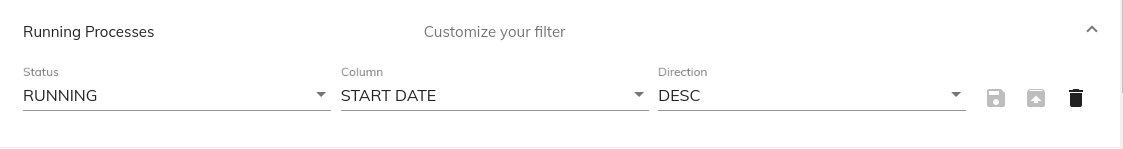
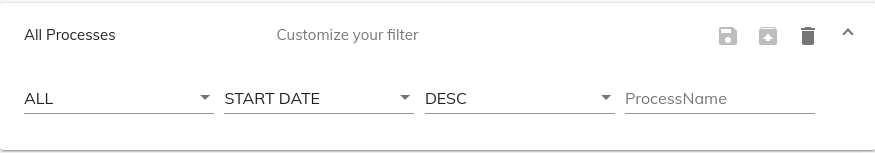
* After rebase* Cherry pick * Updated doc

diff --git a/lib/process-services-cloud/src/lib/task/task-filters/components/edit-task-filter-cloud.component.spec.ts b/lib/process-services-cloud/src/lib/task/task-filters/components/edit-task-filter-cloud.component.spec.ts
@@ -135,7 +135,7 @@ describe('EditTaskFilterCloudComponent', () => {
         }));
 
         it('should disable save button if the task filter is not changed', async(() => {
-            component.showFilterActions = true;
+            component.toggleFilterActions = true;
             let expansionPanel = fixture.debugElement.nativeElement.querySelector('mat-expansion-panel-header');
             expansionPanel.click();
             fixture.detectChanges();
@@ -146,7 +146,7 @@ describe('EditTaskFilterCloudComponent', () => {
         }));
 
         it('should disable saveAs button if the task filter is not changed', async(() => {
-            component.showFilterActions = true;
+            component.toggleFilterActions = true;
             let expansionPanel = fixture.debugElement.nativeElement.querySelector('mat-expansion-panel-header');
             expansionPanel.click();
             fixture.detectChanges();
@@ -157,7 +157,7 @@ describe('EditTaskFilterCloudComponent', () => {
         }));
 
         it('should enable delete button by default', async(() => {
-            component.showFilterActions = true;
+            component.toggleFilterActions = true;
             fixture.detectChanges();
             let expansionPanel = fixture.debugElement.nativeElement.querySelector('mat-expansion-panel-header');
             expansionPanel.click();
@@ -298,7 +298,7 @@ describe('EditTaskFilterCloudComponent', () => {
         });
 
         it('should emit save event and save the filter on click save button', async(() => {
-            component.showFilterActions = true;
+            component.toggleFilterActions = true;
             const saveFilterSpy = spyOn(service, 'updateFilter').and.returnValue(fakeFilter);
             let saveSpy: jasmine.Spy = spyOn(component.action, 'emit');
             fixture.detectChanges();
@@ -321,7 +321,7 @@ describe('EditTaskFilterCloudComponent', () => {
         }));
 
         it('should emit delete event and delete the filter on click of delete button', async(() => {
-            component.showFilterActions = true;
+            component.toggleFilterActions = true;
             const deleteFilterSpy = spyOn(service, 'deleteFilter').and.callThrough();
             let deleteSpy: jasmine.Spy = spyOn(component.action, 'emit');
             fixture.detectChanges();
@@ -341,7 +341,7 @@ describe('EditTaskFilterCloudComponent', () => {
         }));
 
         it('should emit saveAs event and add filter on click saveAs button', async(() => {
-            component.showFilterActions = true;
+            component.toggleFilterActions = true;
             const saveAsFilterSpy = spyOn(service, 'addFilter').and.callThrough();
             let saveAsSpy: jasmine.Spy = spyOn(component.action, 'emit');
             fixture.detectChanges();

diff --git a/lib/process-services-cloud/src/lib/process/process-filters/components/edit-process-filter-cloud.component.spec.ts b/lib/process-services-cloud/src/lib/process/process-filters/components/edit-process-filter-cloud.component.spec.ts
@@ -133,7 +133,7 @@ describe('EditProcessFilterCloudComponent', () => {
         }));
 
         it('should disable save button if the process filter is not changed', async(() => {
-            component.showFilterActions = true;
+            component.toggleFilterActions = true;
             let expansionPanel = fixture.debugElement.nativeElement.querySelector('mat-expansion-panel-header');
             expansionPanel.click();
             fixture.detectChanges();
@@ -144,7 +144,7 @@ describe('EditProcessFilterCloudComponent', () => {
         }));
 
         it('should disable saveAs button if the process filter is not changed', async(() => {
-            component.showFilterActions = true;
+            component.toggleFilterActions = true;
             let expansionPanel = fixture.debugElement.nativeElement.querySelector('mat-expansion-panel-header');
             expansionPanel.click();
             fixture.detectChanges();
@@ -155,7 +155,7 @@ describe('EditProcessFilterCloudComponent', () => {
         }));
 
         it('should enable delete button by default', async(() => {
-            component.showFilterActions = true;
+            component.toggleFilterActions = true;
             let expansionPanel = fixture.debugElement.nativeElement.querySelector('mat-expansion-panel-header');
             expansionPanel.click();
             fixture.detectChanges();
@@ -306,7 +306,7 @@ describe('EditProcessFilterCloudComponent', () => {
         });
 
         it('should emit save event and save the filter on click save button', async(() => {
-            component.showFilterActions = true;
+            component.toggleFilterActions = true;
             const saveFilterSpy = spyOn(service, 'updateFilter').and.returnValue(fakeFilter);
             let saveSpy: jasmine.Spy = spyOn(component.action, 'emit');
 
@@ -329,7 +329,7 @@ describe('EditProcessFilterCloudComponent', () => {
         }));
 
         it('should emit delete event and delete the filter on click of delete button', async(() => {
-            component.showFilterActions = true;
+            component.toggleFilterActions = true;
             const deleteFilterSpy = spyOn(service, 'deleteFilter').and.callThrough();
             let deleteSpy: jasmine.Spy = spyOn(component.action, 'emit');
             fixture.detectChanges();
@@ -350,7 +350,7 @@ describe('EditProcessFilterCloudComponent', () => {
         }));
 
         it('should emit saveAs event and add filter on click saveAs button', async(() => {
-            component.showFilterActions = true;
+            component.toggleFilterActions = true;
             const saveAsFilterSpy = spyOn(service, 'addFilter').and.callThrough();
             let saveAsSpy: jasmine.Spy = spyOn(component.action, 'emit');
             fixture.detectChanges();

diff --git a/demo-shell/src/app/components/app-layout/cloud/tasks-cloud-demo.component.ts b/demo-shell/src/app/components/app-layout/cloud/tasks-cloud-demo.component.ts
@@ -17,7 +17,7 @@
 
 import { Component, ViewChild, OnInit } from '@angular/core';
 import { TaskListCloudComponent, TaskListCloudSortingModel, TaskFilterCloudModel } from '@alfresco/adf-process-services-cloud';
-import { UserPreferencesService } from '@alfresco/adf-core';
+import { UserPreferencesService, AppConfigService } from '@alfresco/adf-core';
 import { ActivatedRoute, Router } from '@angular/router';
 import { CloudLayoutService } from './services/cloud-layout.service';
 
@@ -28,6 +28,7 @@ import { CloudLayoutService } from './services/cloud-layout.service';
 export class TasksCloudDemoComponent implements OnInit {
 
     public static ACTION_SAVE_AS = 'SAVE_AS';
+    static TASK_FILTER_PROPERTY_KEYS = 'adf-edit-task-filter.properties';
 
     @ViewChild('taskCloud')
     taskCloud: TaskListCloudComponent;
@@ -40,6 +41,7 @@ export class TasksCloudDemoComponent implements OnInit {
 
     sortArray: TaskListCloudSortingModel[];
     editedFilter: TaskFilterCloudModel;
+    taskFilterProperties: any[];
 
     filterId;
 
@@ -47,7 +49,13 @@ export class TasksCloudDemoComponent implements OnInit {
         private cloudLayoutService: CloudLayoutService,
         private route: ActivatedRoute,
         private router: Router,
-        private userPreference: UserPreferencesService) {
+        private userPreference: UserPreferencesService,
+        private appConfig: AppConfigService) {
+
+        const properties = this.appConfig.get<Array<any>>(TasksCloudDemoComponent.TASK_FILTER_PROPERTY_KEYS);
+        if (properties) {
+            this.taskFilterProperties = properties;
+        }
     }
 
     ngOnInit() {

diff --git a/lib/process-services-cloud/src/lib/process/process-filters/components/edit-process-filter-cloud.component.ts b/lib/process-services-cloud/src/lib/process/process-filters/components/edit-process-filter-cloud.component.ts
@@ -57,7 +57,7 @@ export class EditProcessFilterCloudComponent implements OnChanges {
     filterProperties: string[] = EditProcessFilterCloudComponent.DEFAULT_PROCESS_FILTER_PROPERTIES; // default ['state', 'sort', 'order']
 
     @Input()
-    toggleFilterActions = true;
+    showFilterActions = true;
 
     @Input()
     showTitle = true;
@@ -81,7 +81,7 @@ export class EditProcessFilterCloudComponent implements OnChanges {
     ];
 
     status = [
-        { label: 'ALL', value: 'ALL' },
+        { label: 'ALL', value: '' },
         { label: 'RUNNING', value: 'RUNNING' },
         { label: 'COMPLETED', value: 'COMPLETED' }
     ];
@@ -90,7 +90,7 @@ export class EditProcessFilterCloudComponent implements OnChanges {
     formHasBeenChanged = false;
     editProcessFilterForm: FormGroup;
     processFilterProperties: any[] = [];
-    showFilterActions: boolean = false;
+    toggleFilterActions: boolean = false;
 
     constructor(
         private formBuilder: FormBuilder,
@@ -271,16 +271,16 @@ export class EditProcessFilterCloudComponent implements OnChanges {
         return name.replace(regExt, '-');
     }
 
-    toggleActions(): boolean {
-        return this.toggleFilterActions;
+    showActions(): boolean {
+        return this.showFilterActions;
     }
 
     onExpand(event: any) {
-        this.showFilterActions = true;
+        this.toggleFilterActions = true;
     }
 
     onClose(event: any) {
-        this.showFilterActions = false;
+        this.toggleFilterActions = false;
     }
 
     isDateType(property: ProcessFilterProperties): boolean {

diff --git a/demo-shell/src/app/components/app-layout/cloud/processes-cloud-demo.component.ts b/demo-shell/src/app/components/app-layout/cloud/processes-cloud-demo.component.ts
@@ -24,7 +24,7 @@ import {
 } from '@alfresco/adf-process-services-cloud';
 
 import { ActivatedRoute } from '@angular/router';
-import { UserPreferencesService } from '@alfresco/adf-core';
+import { UserPreferencesService, AppConfigService } from '@alfresco/adf-core';
 import { CloudLayoutService } from './services/cloud-layout.service';
 
 @Component({
@@ -32,6 +32,8 @@ import { CloudLayoutService } from './services/cloud-layout.service';
     styleUrls: ['./processes-cloud-demo.component.scss']
 })
 export class ProcessesCloudDemoComponent implements OnInit {
+
+    static PROCESS_FILTER_PROPERTY_KEYS = 'adf-edit-process-filter.properties';
 
     @ViewChild('processCloud')
     processCloud: ProcessListCloudComponent;
@@ -45,13 +47,19 @@ export class ProcessesCloudDemoComponent implements OnInit {
     filterId: string = '';
     sortArray: any = [];
     selectedRow: any;
+    processFilterProperties: any[];
 
     editedFilter: ProcessFilterCloudModel;
 
     constructor(
         private route: ActivatedRoute,
         private cloudLayoutService: CloudLayoutService,
-        private userPreference: UserPreferencesService) {
+        private userPreference: UserPreferencesService,
+        private appConfig: AppConfigService) {
+        const properties = this.appConfig.get<Array<any>>(ProcessesCloudDemoComponent.PROCESS_FILTER_PROPERTY_KEYS);
+        if (properties) {
+            this.processFilterProperties = properties;
+        }
     }
 
     ngOnInit() {

diff --git a/lib/process-services-cloud/src/lib/task/task-filters/components/edit-task-filter-cloud.component.ts b/lib/process-services-cloud/src/lib/task/task-filters/components/edit-task-filter-cloud.component.ts
@@ -57,7 +57,7 @@ export class EditTaskFilterCloudComponent implements OnChanges {
 
     /** Toggles the filter actions. */
     @Input()
-    toggleFilterActions = true;
+    showFilterActions = true;
 
     /** Toggles the title. */
     @Input()
@@ -100,7 +100,7 @@ export class EditTaskFilterCloudComponent implements OnChanges {
     formHasBeenChanged = false;
     editTaskFilterForm: FormGroup;
     taskFilterProperties: any[] = [];
-    showFilterActions: boolean = false;
+    toggleFilterActions: boolean = false;
 
     constructor(
         private formBuilder: FormBuilder,
@@ -260,16 +260,16 @@ export class EditTaskFilterCloudComponent implements OnChanges {
         return name.replace(regExt, '-');
     }
 
-    toggleActions(): boolean {
-        return this.toggleFilterActions;
+    showActions(): boolean {
+        return this.showFilterActions;
     }
 
     onExpand(event: any) {
-        this.showFilterActions = true;
+        this.toggleFilterActions = true;
     }
 
     onClose(event: any) {
-        this.showFilterActions = false;
+        this.toggleFilterActions = false;
     }
 
     isDateType(property: TaskFilterProperties): boolean {

diff --git a/lib/process-services-cloud/src/lib/process/process-filters/components/edit-process-filter-cloud.component.html b/lib/process-services-cloud/src/lib/process/process-filters/components/edit-process-filter-cloud.component.html
@@ -4,8 +4,8 @@
             <mat-panel-title fxLayoutAlign="space-between center" id="adf-edit-process-filter-title-id">{{processFilter.name | translate}}</mat-panel-title>
             <mat-panel-description fxLayoutAlign="space-between center" id="adf-edit-process-filter-sub-title-id">
                 <span *ngIf="showTitle"> {{ 'ADF_CLOUD_EDIT_PROCESS_FILTER.TITLE' | translate}}</span>
-                <div *ngIf="toggleActions()" class="adf-cloud-edit-task-filter-actions">
-                    <ng-container *ngIf="showFilterActions">
+                <div *ngIf="showActions()" class="adf-cloud-edit-task-filter-actions">
+                    <ng-container *ngIf="toggleFilterActions">
                         <button mat-icon-button matTooltip="{{'ADF_CLOUD_EDIT_PROCESS_FILTER.TOOL_TIP.SAVE' | translate}}" [disabled]="!formHasBeenChanged" id="adf-save-id" (click)="onSave()">
                             <mat-icon>save</mat-icon>
                         </button>

diff --git a/lib/process-services-cloud/src/lib/task/task-filters/components/edit-task-filter-cloud.component.html b/lib/process-services-cloud/src/lib/task/task-filters/components/edit-task-filter-cloud.component.html
@@ -4,8 +4,8 @@
             <mat-panel-title fxLayoutAlign="space-between center" id="adf-edit-task-filter-title-id">{{taskFilter.name | translate}}</mat-panel-title>
             <mat-panel-description fxLayoutAlign="space-between center" id="adf-edit-task-filter-sub-title-id">
                 <span *ngIf="showTitle">{{ 'ADF_CLOUD_EDIT_TASK_FILTER.TITLE' | translate}}</span>
-                <div *ngIf="toggleActions()" class="adf-cloud-edit-task-filter-actions">
-                    <ng-container *ngIf="showFilterActions">
+                <div *ngIf="showActions()" class="adf-cloud-edit-task-filter-actions">
+                    <ng-container *ngIf="toggleFilterActions">
                         <button mat-icon-button matTooltip="{{'ADF_CLOUD_EDIT_TASK_FILTER.TOOL_TIP.SAVE' | translate}}" id="adf-save-id" [disabled]="!formHasBeenChanged" (click)="onSave()">
                             <mat-icon>save</mat-icon>
                         </button>

diff --git a/demo-shell/src/app/components/app-layout/cloud/processes-cloud-demo.component.html b/demo-shell/src/app/components/app-layout/cloud/processes-cloud-demo.component.html
@@ -2,6 +2,7 @@
     <adf-cloud-edit-process-filter
         [appName]="applicationName"
         [id]="filterId"
+        [filterProperties]="processFilterProperties"
         (filterChange)="onFilterChange($event)"
         (action)="onProcessFilterAction($event)">
     </adf-cloud-edit-process-filter>
@@ -9,6 +10,7 @@
         <adf-cloud-process-list fxFlex class="adf-cloud-layout-overflow"
                                 [applicationName]="editedFilter.appName"
                                 [status]="editedFilter.state"
+                                [name]="editedFilter.processName"
                                 [sorting]="sortArray"
                                 (rowClick)="onRowClick($event)"
                                 #processCloud>

diff --git a/lib/process-services-cloud/src/lib/process/process-filters/models/process-filter-cloud.model.ts b/lib/process-services-cloud/src/lib/process/process-filters/models/process-filter-cloud.model.ts
@@ -82,7 +82,7 @@ export class ProcessFilterProperties {
         if (obj) {
             this.label = obj.label || null;
             this.type = obj.type || null;
-            this.value = obj.value || null;
+            this.value = obj.value || '';
             this.key = obj.key || null;
             this.options$ = obj.options || null;
         }

diff --git a/demo-shell/src/app/components/app-layout/cloud/tasks-cloud-demo.component.html b/demo-shell/src/app/components/app-layout/cloud/tasks-cloud-demo.component.html
@@ -2,6 +2,7 @@
     <adf-cloud-edit-task-filter
         [appName]="applicationName"
         [id]="filterId"
+        [filterProperties]="taskFilterProperties"
         (action)="onTaskFilterAction($event)"
         (filterChange)="onFilterChange($event)">
     </adf-cloud-edit-task-filter>

diff --git a/lib/process-services-cloud/src/lib/process/process-filters/services/process-filter-cloud.service.ts b/lib/process-services-cloud/src/lib/process/process-filters/services/process-filter-cloud.service.ts
@@ -142,7 +142,7 @@ export class ProcessFilterCloudService {
             icon: 'adjust',
             appName: appName,
             sort: 'startDate',
-            state: 'ALL',
+            state: '',
             order: 'DESC'
         });
     }
